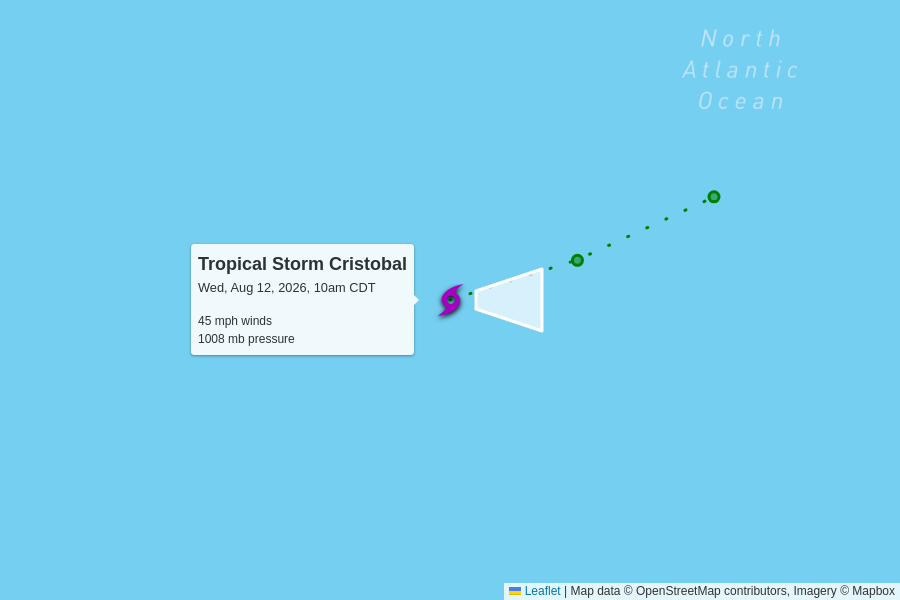
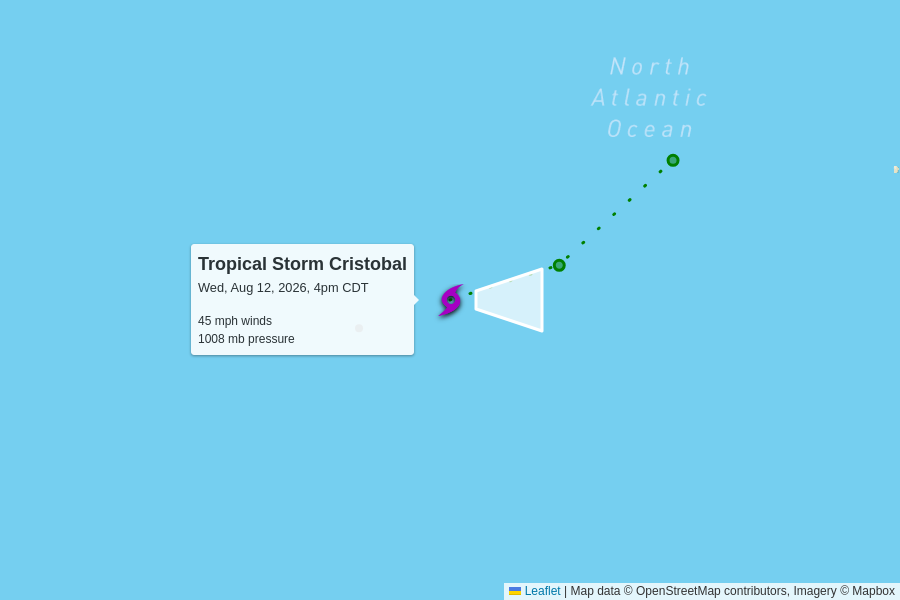
automatic update

diff --git a/docs/2026.html b/docs/2026.html
@@ -45,13 +45,13 @@
       <grid-container>
           <grid-row>
             <script type="text/json" id="storm_data_AL032026">
-              {"pressure":[{"timestamp":"2026-08-12T15:00:00.000Z","value":1008}],"wind":[{"timestamp":"2026-08-12T15:00:00.000Z","value":45}]}
+              {"pressure":[{"timestamp":"2026-08-12T15:00:00.000Z","value":1008},{"timestamp":"2026-08-12T21:00:00.000Z","value":1008}],"wind":[{"timestamp":"2026-08-12T15:00:00.000Z","value":45},{"timestamp":"2026-08-12T21:00:00.000Z","value":45}]}
             </script>              <grid-container class="storm">
                 <grid-row onClick="toggle('storm_AL032026')">
                   <h2>
                     Tropical Storm Cristobal
                     <div class="updated">
-                      last updated <time datetime="2026-08-12T15:00:00.000Z">2026-08-12T15:00:00.000Z</time>
+                      last updated <time datetime="2026-08-12T21:00:00.000Z">2026-08-12T21:00:00.000Z</time>
                     </div>
                   </h2>
                 </grid-row>
@@ -69,15 +69,15 @@
                         <td>
                           45 mph
                           <br>
-                          
+                          0 mph since last update
                         </td>
                         <td>
                           1008 mb
                           <br>
-                          
+                          0 mb since last update
                         </td>
                         <td>
-                          25 mph to the east
+                          21 mph to the east
                           <br>
                           <span style="display: inline-block; font-size: 1.5em; transform: rotate(90deg);">↑</span>
                         </td>

diff --git a/docs/index.html b/docs/index.html
@@ -45,13 +45,13 @@
       <grid-container>
           <grid-row>
             <script type="text/json" id="storm_data_AL032026">
-              {"pressure":[{"timestamp":"2026-08-12T15:00:00.000Z","value":1008}],"wind":[{"timestamp":"2026-08-12T15:00:00.000Z","value":45}]}
+              {"pressure":[{"timestamp":"2026-08-12T15:00:00.000Z","value":1008},{"timestamp":"2026-08-12T21:00:00.000Z","value":1008}],"wind":[{"timestamp":"2026-08-12T15:00:00.000Z","value":45},{"timestamp":"2026-08-12T21:00:00.000Z","value":45}]}
             </script>              <grid-container class="storm">
                 <grid-row onClick="toggle('storm_AL032026')">
                   <h2>
                     Tropical Storm Cristobal
                     <div class="updated">
-                      last updated <time datetime="2026-08-12T15:00:00.000Z">2026-08-12T15:00:00.000Z</time>
+                      last updated <time datetime="2026-08-12T21:00:00.000Z">2026-08-12T21:00:00.000Z</time>
                     </div>
                   </h2>
                 </grid-row>
@@ -69,15 +69,15 @@
                         <td>
                           45 mph
                           <br>
-                          
+                          0 mph since last update
                         </td>
                         <td>
                           1008 mb
                           <br>
-                          
+                          0 mb since last update
                         </td>
                         <td>
-                          25 mph to the east
+                          21 mph to the east
                           <br>
                           <span style="display: inline-block; font-size: 1.5em; transform: rotate(90deg);">↑</span>
                         </td>
